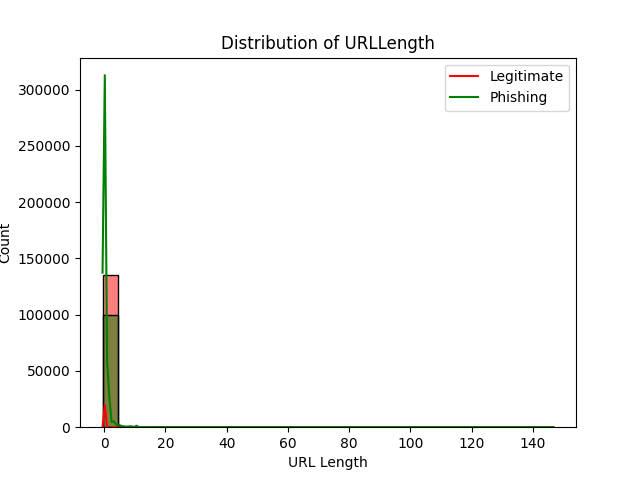
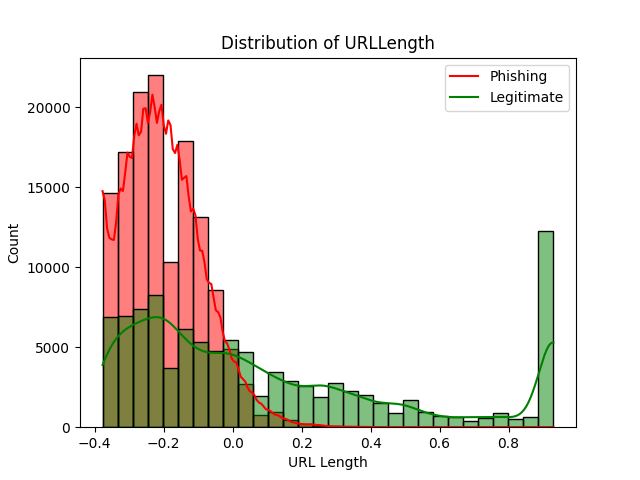
Initial commit for PhishShield project

diff --git a/data_visualization.py b/data_visualization.py
@@ -13,51 +13,51 @@ df = pd.read_csv("preprocessed_data.csv")
 # class distribution (Phishing vs. Legitimate)
 sns.countplot(x=df["label"], palette=["green", "red"])
 plt.title("Class Distribution (Phishing vs Legitimate URLs)")
-plt.xlabel("Label (0 = Legitimate, 1 = Phishing)")
+plt.xlabel("Label (0 = Phishing, 1 = Legitimate)")
 plt.ylabel("Count")
-plt.xticks(ticks=[0, 1], labels=["Legitimate", "Phishing"])
+plt.xticks(ticks=[0, 1], labels=["Phishing", "Legitimate"])
 plt.show()
 
 sns.histplot(data=df, x="URLLength", hue="label", kde=True, bins=30, palette=["green", "red"])
 plt.title(f"Distribution of {"URLLength"}")
 plt.xlabel("URL Length")
 plt.ylabel("Count")
-plt.legend(labels=["Legitimate", "Phishing"])
+plt.legend(labels=["Phishing", "Legitimate"])
 plt.show()
 
 sns.histplot(data=df, x="DomainLength", hue="label", kde=True, bins=30, palette=["green", "red"])
 plt.title(f"Distribution of {"DomainLength"}")
 plt.xlabel("DomainLength")
 plt.ylabel("Count")
-plt.legend(labels=["Legitimate", "Phishing"])
+plt.legend(labels=["Phishing", "Legitimate"])
 plt.show()
 
 sns.histplot(data=df, x="NoOfSubDomain", hue="label", kde=True, bins=30, palette=["green", "red"])
 plt.title(f"Distribution of {"NoOfSubDomain"}")
 plt.xlabel("No Of SubDomain")
 plt.ylabel("Count")
-plt.legend(labels=["Legitimate", "Phishing"])
+plt.legend(labels=["Phishing", "Legitimate"])
 plt.show()
 
 sns.histplot(data=phishing_ds, x="URLSimilarityIndex", hue="label", kde=True, bins=30, palette=["green", "red"])
 plt.title(f"Distribution of {"URLSimilarityIndex"}")
 plt.xlabel("URL Similarity Index")
 plt.ylabel("Count")
-plt.legend(labels=["Legitimate", "Phishing"])
+plt.legend(labels=["Phishing", "Legitimate"])
 plt.show()
 
 sns.histplot(data=phishing_ds, x="LetterRatioInURL", hue="label", kde=True, bins=30, palette=["green", "red"])
 plt.title(f"Distribution of {"LetterRatioInURL"}")
 plt.xlabel("Letter Ratio In URL")
 plt.ylabel("Count")
-plt.legend(labels=["Legitimate", "Phishing"])
+plt.legend(labels=["Phishing", "Legitimate"])
 plt.show()
 
 sns.histplot(data=phishing_ds, x="IsHTTPS", hue="label", kde=True, bins=30, palette=["green", "red"])
 plt.title(f"Distribution of {"IsHTTPS"}")
 plt.xlabel("Is HTTPS")
 plt.ylabel("Count")
-plt.legend(labels=["Legitimate", "Phishing"])
+plt.legend(labels=["Phishing", "Legitimate"])
 plt.show()
 
 correlation_matrix = df.corr()
@@ -72,20 +72,20 @@ for f in features_box:
     plt.figure(figsize=(8, 5))
     sns.boxplot(x=df["label"], y=df[f], palette=["green", "red"])
     plt.title(f"Box Plot of {f} by Class (Phishing vs Legitimate)")
-    plt.xlabel("Label (0 = Legitimate, 1 = Phishing)")
+    plt.xlabel("Label (0 = Phishing, 1 = Legitimate)")
     plt.ylabel(f)
-    plt.xticks(ticks=[0, 1], labels=["Legitimate", "Phishing"])
+    plt.xticks(ticks=[0, 1], labels=["Phishing", "Legitimate"])
     plt.show()
     print("\n")
 
 # Count Plot: Distribution of Categorical Features
 plt.figure(figsize=(12, 6))
-sns.countplot(x=df["TLD"], hue=df["label"], palette=["green", "red"], order=df["TLD"].value_counts().index[:10])
+sns.countplot(x=phishing_ds["TLD"], hue=df["label"], palette=["green", "red"], order=phishing_ds["TLD"].value_counts().index[:10])
 plt.title("Top 10 Most Common TLDs in Phishing vs. Legitimate URLs")
 plt.xlabel("Top-Level Domain (TLD)")
 plt.ylabel("Count")
 plt.xticks(rotation=45)
-plt.legend(title="Label", labels=["Legitimate", "Phishing"])
+plt.legend(title="Label", labels=["Phishing", "Legitimate"])
 plt.show()
 
 #Violin Plots: Feature Distributions per Class
@@ -93,9 +93,9 @@ for feature in ["URLLength", "DomainLength", "ObfuscationRatio"]:
     plt.figure(figsize=(8, 5))
     sns.violinplot(x=df["label"], y=df[feature], palette=["green", "red"])
     plt.title(f"Violin Plot of {feature} by Class")
-    plt.xlabel("Label (0 = Legitimate, 1 = Phishing)")
+    plt.xlabel("Label (0 = Phishing, 1 = Legitimate)")
     plt.ylabel(feature)
-    plt.xticks(ticks=[0, 1], labels=["Legitimate", "Phishing"])
+    plt.xticks(ticks=[0, 1], labels=["Phishing", "Legitimate"])
     plt.show()
 
 #HTTPS Usage in Phishing vs. Legitimate URLs
@@ -105,7 +105,7 @@ plt.title("HTTPS Usage in Phishing vs Legitimate URLs")
 plt.xlabel("Uses HTTPS (1 = Yes, 0 = No)")
 plt.ylabel("Count")
 plt.xticks(ticks=[0, 1], labels=["No HTTPS", "HTTPS"])
-plt.legend(title="Label", labels=["Legitimate", "Phishing"])
+plt.legend(title="Label", labels=["Phishing", "Legitimate"])
 plt.show()
 
 # Relationship Between Multiple Features
@@ -119,7 +119,6 @@ for i, feature in enumerate(num_features, 1):
     plt.subplot(2, 2, i)
     sns.boxplot(x=df["label"], y=df[feature])
     plt.title(f"Box Plot: {feature} vs. Phishing Label")
-
 plt.tight_layout()
 plt.show()
 

diff --git a/train_random_forest.py b/train_random_forest.py
@@ -48,8 +48,8 @@ print(classification_report(y_test, y_pred_rf))
 # Confusion Matrix Visualization
 plt.figure(figsize=(8, 6))
 sns.heatmap(conf_matrix_rf, annot=True, fmt="d", cmap="Blues", cbar=False,
-            xticklabels=["Legitimate", "Phishing"],
-            yticklabels=["Legitimate", "Phishing"])
+            xticklabels=["Phishing", "Legitimate"],
+            yticklabels=["Phishing", "Legitimate"])
 plt.xlabel("Predicted")
 plt.ylabel("Actual")
 plt.title("Confusion Matrix - Random Forest")
